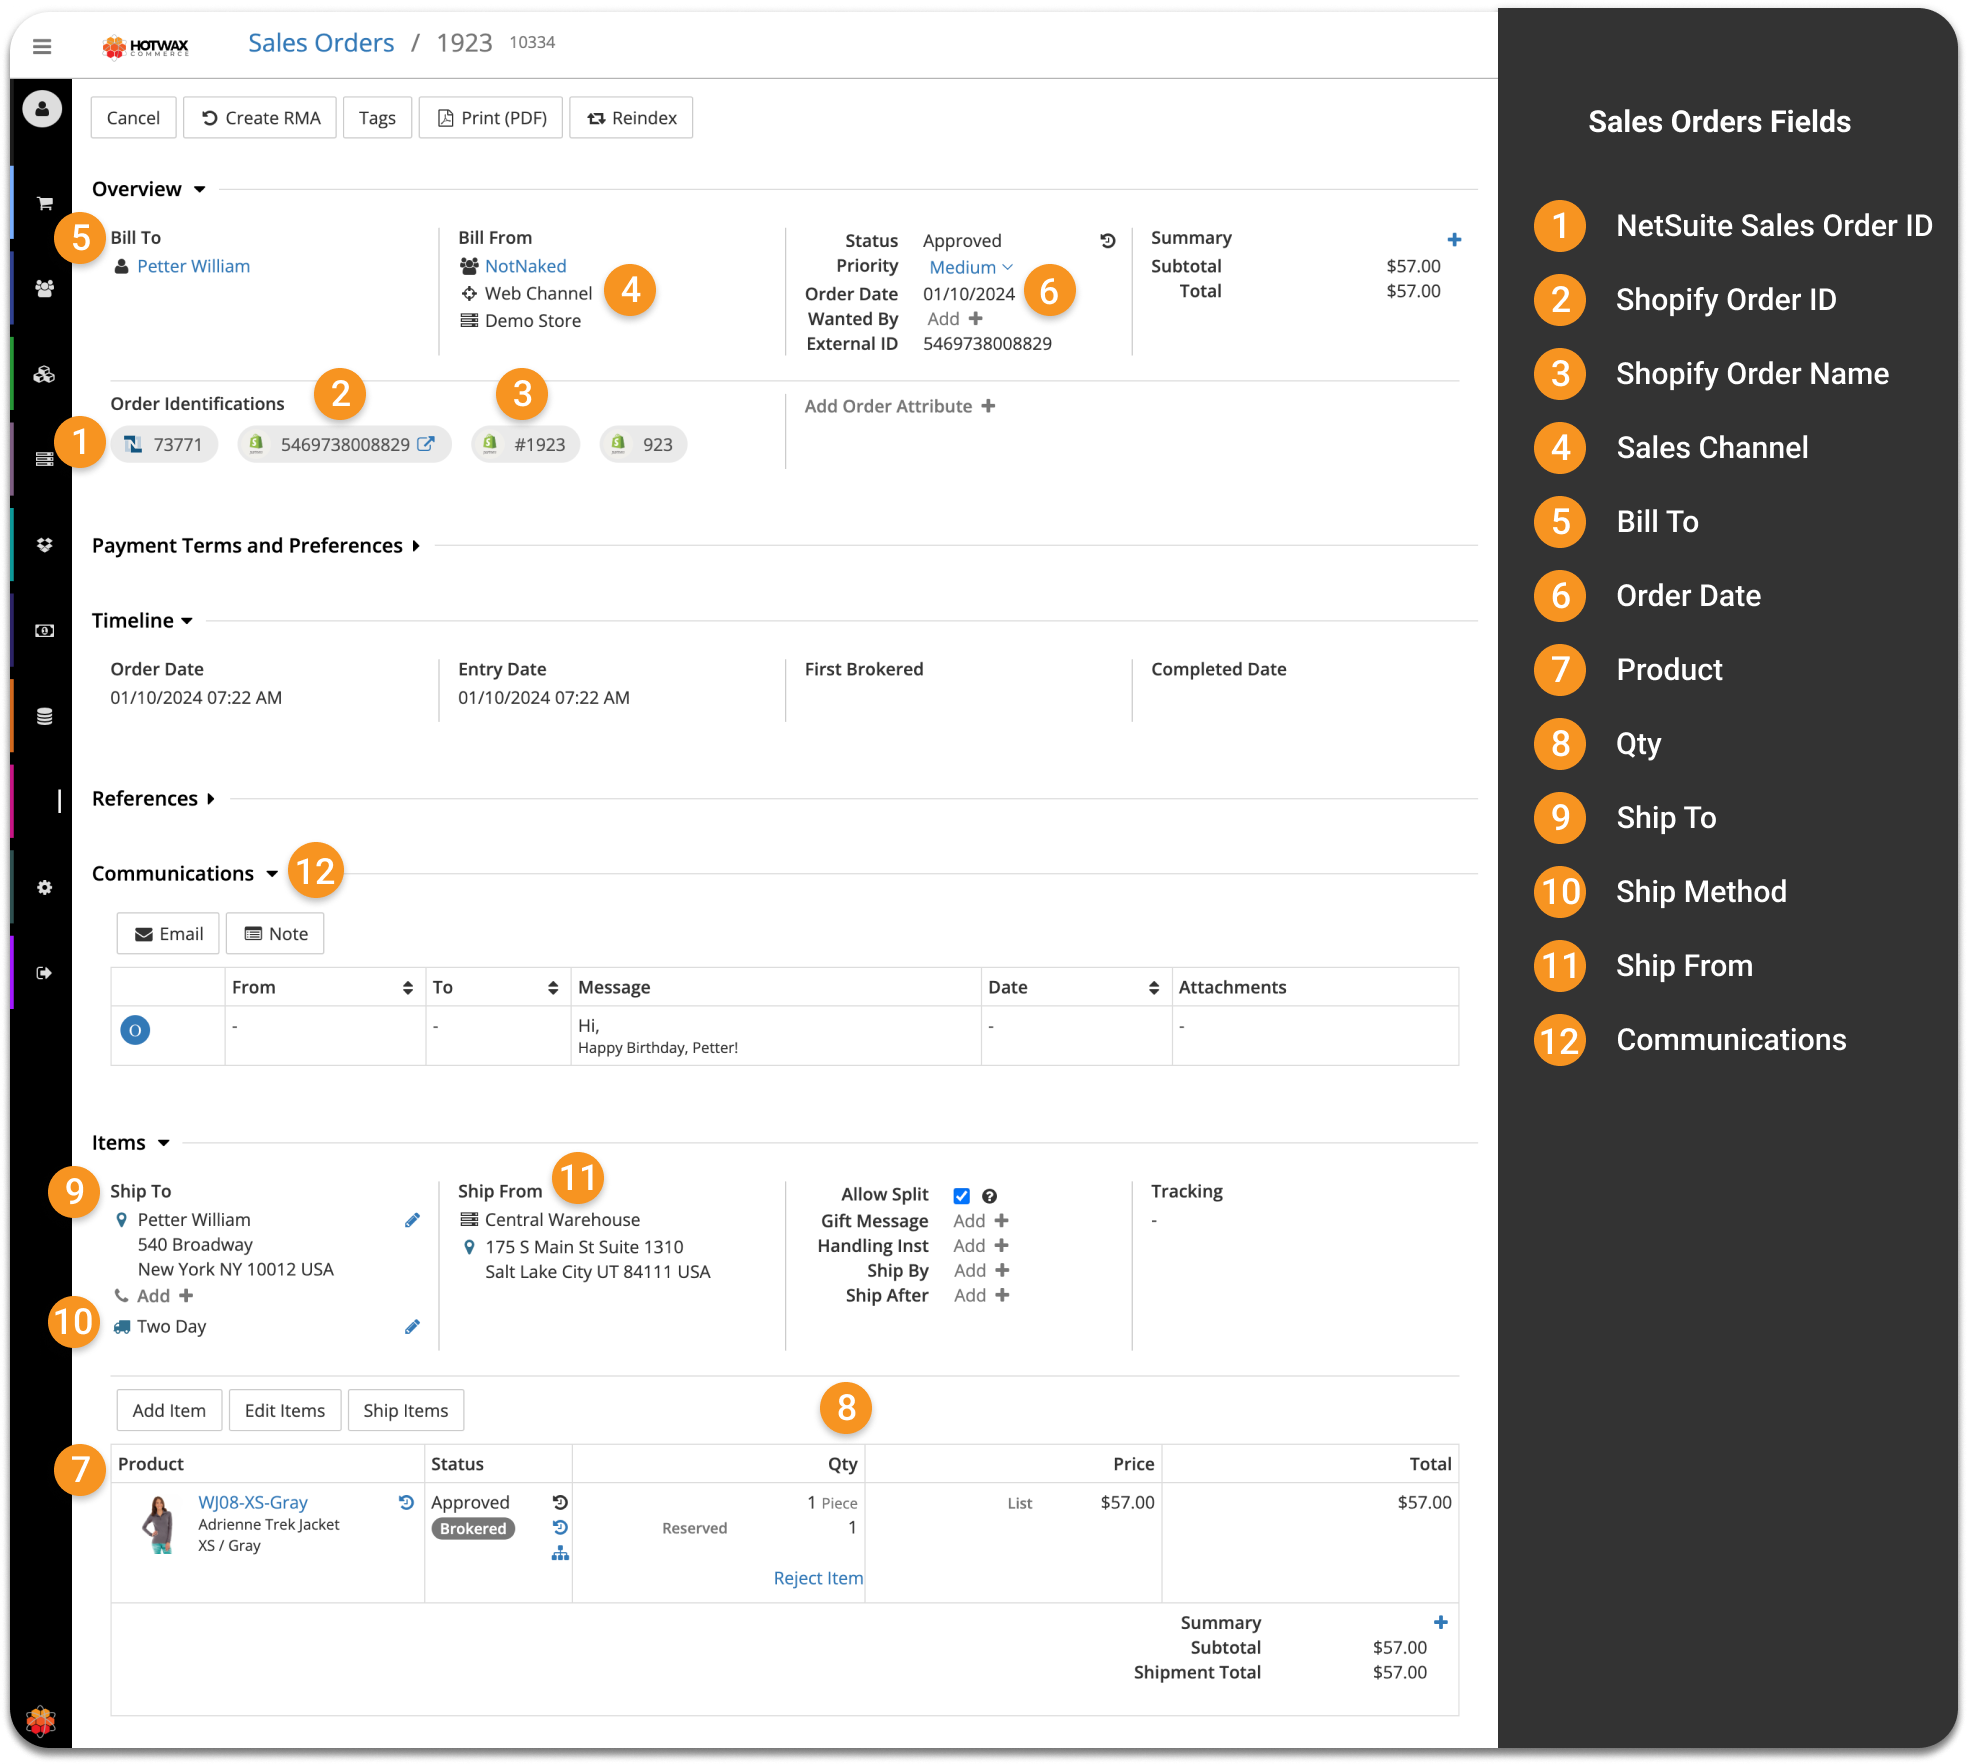
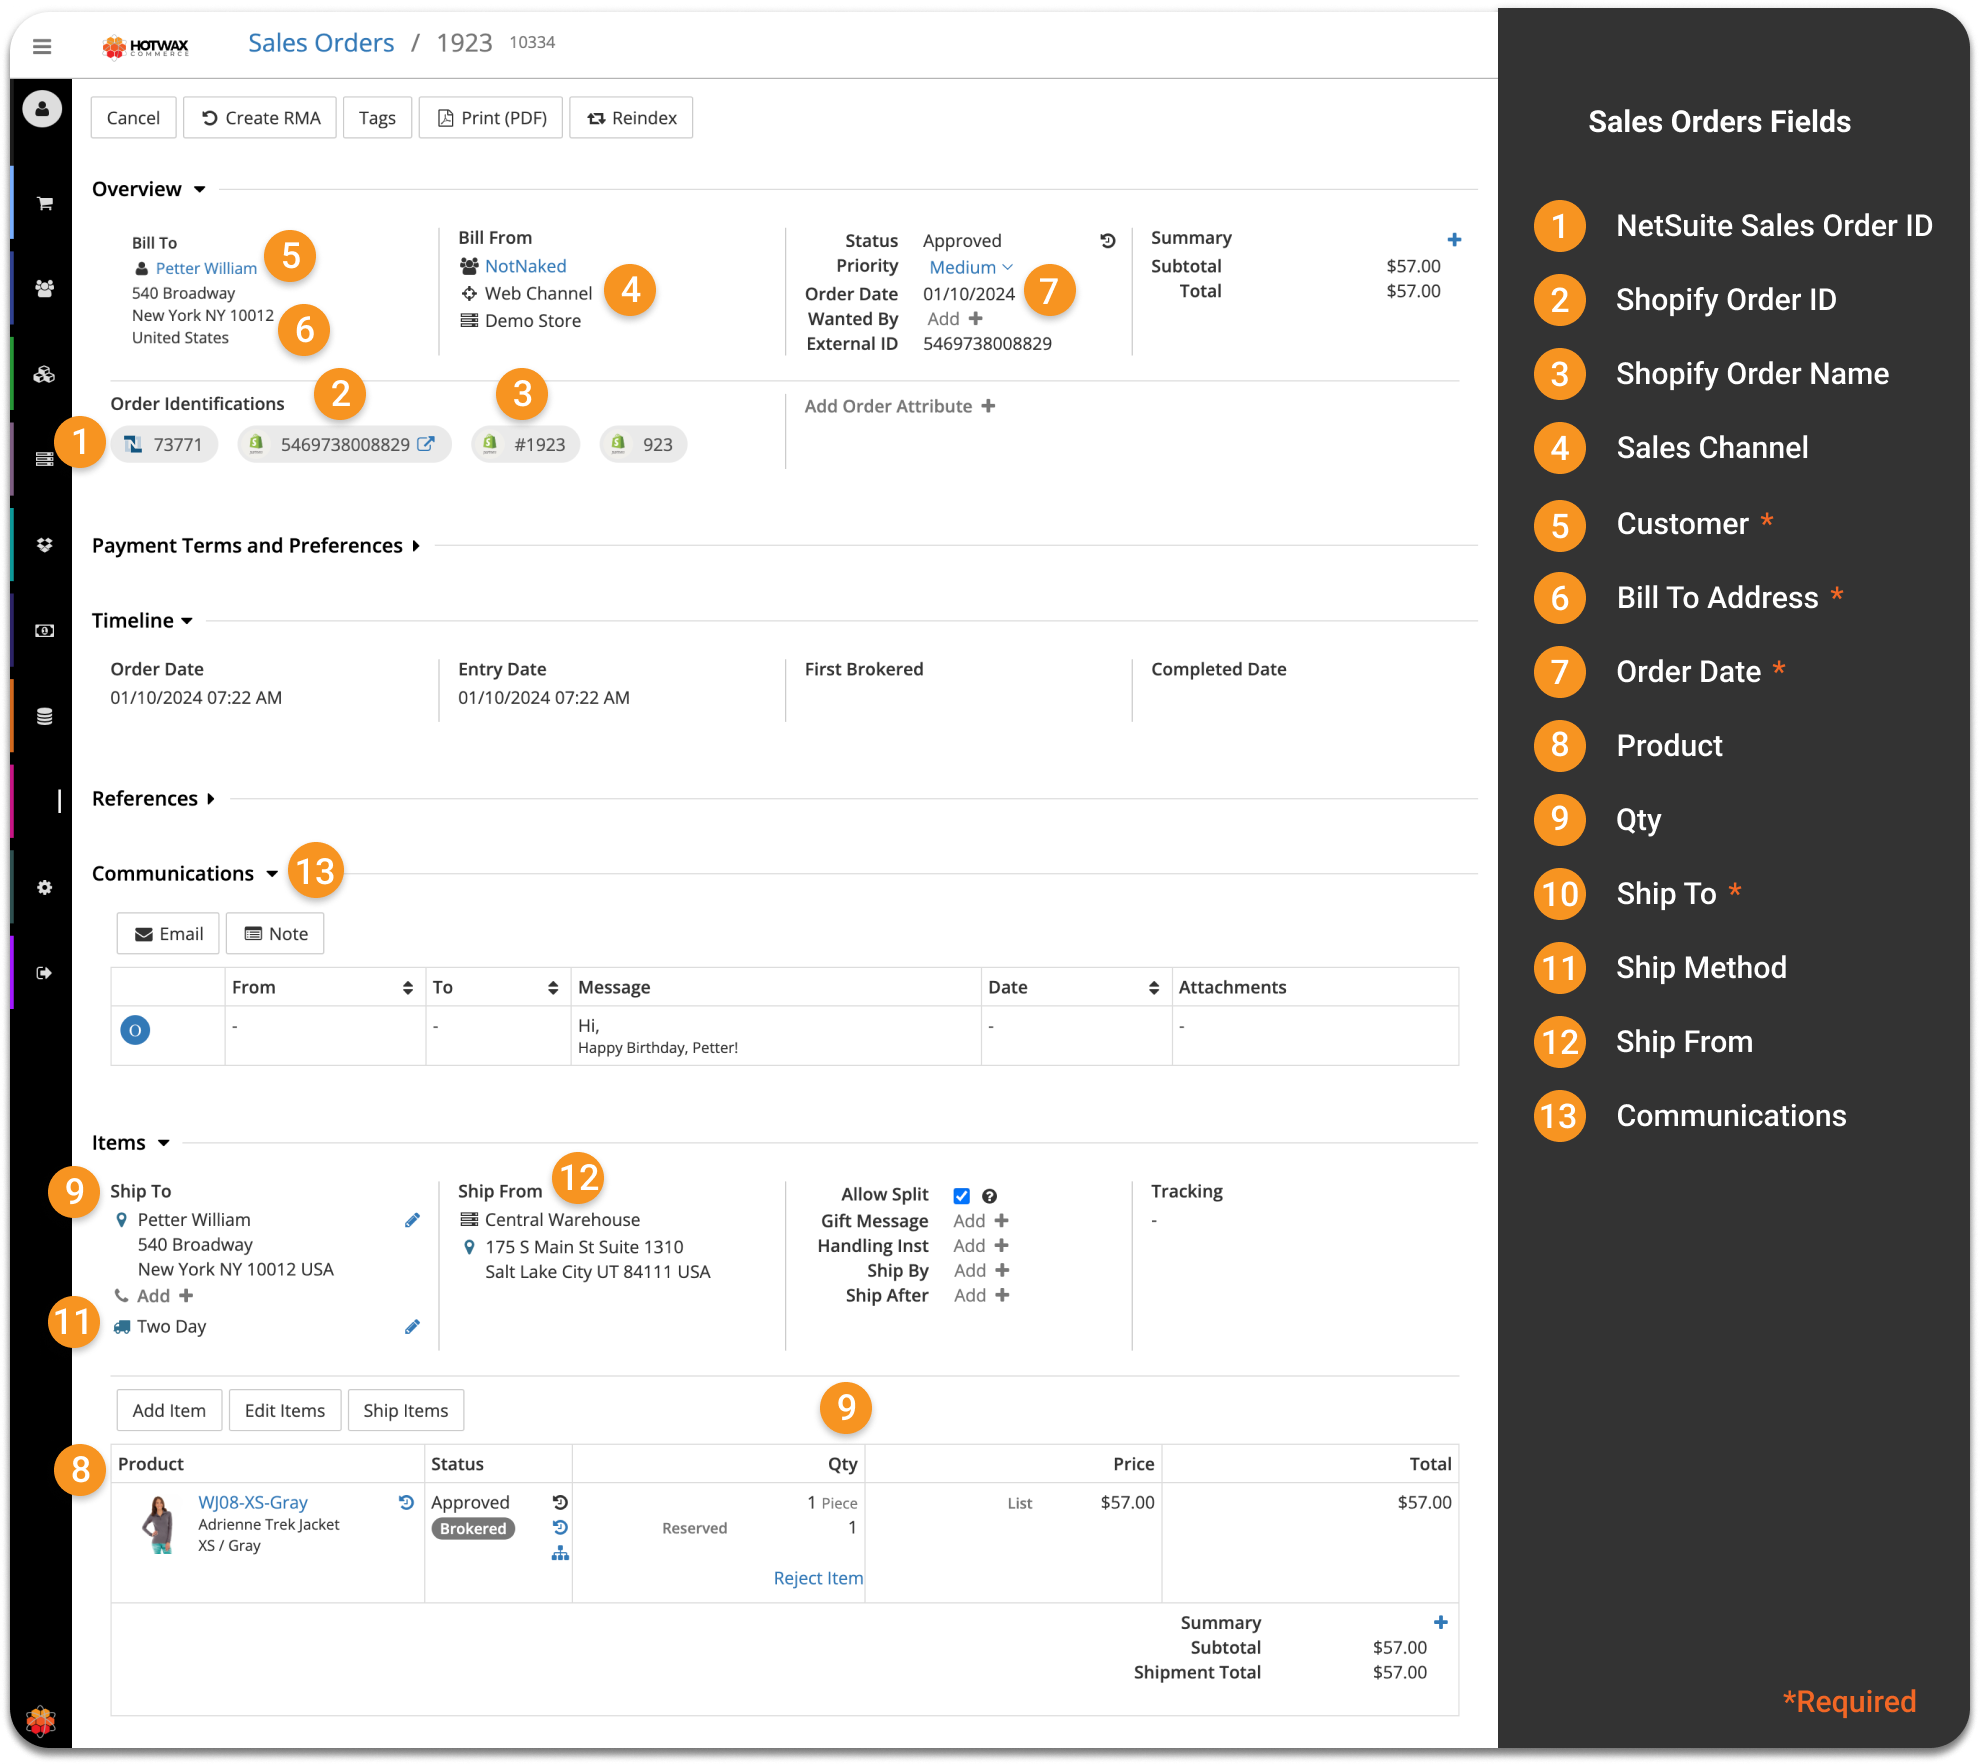
GITBOOK-68: No subject

diff --git a/netsuite/Flows/SalesOrder/OrderApproval.md b/netsuite/Flows/SalesOrder/OrderApproval.md
@@ -42,7 +42,7 @@ Identify new customers by checking the Person table for entries where the roleTy
 
 #### Here's how customer fields are mapped in HotWax Commerce and NetSuite that remains hidden in the user interface but included in the customer CSV file
 
-<table><thead><tr><th width="170">S.No.</th><th>Fields in HotWax Commerce</th><th>Fields in NetSuite</th></tr></thead><tbody><tr><td>1</td><td>Product Store External ID</td><td>Subsidiary *</td></tr><tr><td>2</td><td>Customer-Closed Won</td><td>Status *</td></tr><tr><td>3</td><td>Individual</td><td>Type * </td></tr><tr><td>4</td><td>Party ID</td><td>External ID</td></tr><tr><td>5</td><td>Party Classification</td><td>Initial Lead Source</td></tr><tr><td>6</td><td>True</td><td>Taxable</td></tr></tbody></table>
+<table><thead><tr><th width="170">S.No.</th><th>Fields in HotWax Commerce</th><th>Fields in NetSuite</th></tr></thead><tbody><tr><td>1</td><td>Product Store External ID</td><td>Subsidiary *</td></tr><tr><td>2</td><td>Customer-Closed Won</td><td>Status *</td></tr><tr><td>3</td><td>Individual</td><td>Type *</td></tr><tr><td>4</td><td>Party ID</td><td>External ID</td></tr><tr><td>5</td><td>Party Classification</td><td>Initial Lead Source</td></tr><tr><td>6</td><td>True</td><td>Taxable</td></tr></tbody></table>
 
 {% hint style="danger" %}
 "\*" denotes fields that are required to be sent to NetSuite for the customer sync to work
@@ -115,13 +115,13 @@ For retailers that use Avatax, the Tax Code and Shipping Tax Code will always co
 
 #### Here's how sales order fields are mapped in HotWax Commerce and NetSuite
 
-<table><thead><tr><th width="131">S.No.</th><th>Fields in HotWax Commerce</th><th>Fields in NetSuite</th></tr></thead><tbody><tr><td>1</td><td>NetSuite Sales Order ID</td><td>Internal Sales Order ID </td></tr><tr><td>2</td><td>Shopify Order ID</td><td>HC Shopify Order ID</td></tr><tr><td>3</td><td>Shopify Order Name</td><td>PO#</td></tr><tr><td>4</td><td>Sales Channel</td><td>HC Sales Channel</td></tr><tr><td>5</td><td>Customer</td><td>Customer *</td></tr><tr><td>6</td><td>Bill To Address</td><td>Billing Address *</td></tr><tr><td>7</td><td>Order Date</td><td>Date *</td></tr><tr><td>8</td><td>Product</td><td>Item</td></tr><tr><td>9</td><td>Qty</td><td>Quantity</td></tr><tr><td>10</td><td>Ship To</td><td>Shipping Address *</td></tr><tr><td>11</td><td>Ship Method</td><td>Shipping Method</td></tr><tr><td>12</td><td>Ship From</td><td>Location</td></tr><tr><td>13</td><td>Communications</td><td>Memo</td></tr></tbody></table>
+<table><thead><tr><th width="131">S.No.</th><th>Fields in HotWax Commerce</th><th>Fields in NetSuite</th></tr></thead><tbody><tr><td>1</td><td>NetSuite Sales Order ID</td><td>Internal Sales Order ID</td></tr><tr><td>2</td><td>Shopify Order ID</td><td>HC Shopify Order ID</td></tr><tr><td>3</td><td>Shopify Order Name</td><td>PO#</td></tr><tr><td>4</td><td>Sales Channel</td><td>HC Sales Channel</td></tr><tr><td>5</td><td>Customer</td><td>Customer *</td></tr><tr><td>6</td><td>Bill To Address</td><td>Billing Address *</td></tr><tr><td>7</td><td>Order Date</td><td>Date *</td></tr><tr><td>8</td><td>Product</td><td>Item</td></tr><tr><td>9</td><td>Qty</td><td>Quantity</td></tr><tr><td>10</td><td>Ship To</td><td>Shipping Address *</td></tr><tr><td>11</td><td>Ship Method</td><td>Shipping Method</td></tr><tr><td>12</td><td>Ship From</td><td>Location</td></tr><tr><td>13</td><td>Communications</td><td>Memo</td></tr></tbody></table>
 
 {% tabs %}
 {% tab title="Sales Order Fields in HotWax Commerce" %}
 <div data-full-width="false">
 
-<figure><img src="../../.gitbook/assets/sales order mapping hotwax (2).png" alt=""><figcaption><p>Sales Order Fields Mapping in HotWax Commerce</p></figcaption></figure>
+<figure><img src="../../.gitbook/assets/sales order mapping hotwax.png" alt=""><figcaption><p>Sales Order Fields Mapping in HotWax Commerce</p></figcaption></figure>
 
 </div>
 {% endtab %}
@@ -229,7 +229,6 @@ FTP Config: IMP_ORDER_IDENT
 
 * [x] Sync order ids
 
-
 ## Create Customer Deposit in NetSuite
 
 This step creates customer deposit records in NetSuite for authorized payments of sales orders. Generating a customer deposit in NetSuite is essential to represent authorized payments for orders. This step signifies the initiation of the financial transaction for orders.
@@ -261,6 +260,7 @@ A SuiteScript in NetSuite creates customer deposit records in "undeposited" stat
 ```
 HC_SC_CreateCustomerDeposit
 ```
+
 {% hint style="info" %}
 The `HC_SC_CreateCustomerDeposit` SuiteScript also generates a CSV file highlighting erroneous records found during processing and uploads the file to the SFTP server. Simultaneously, an email alert is automatically triggered to designated personnel, helping them quickly pinpoint the source of the issue and accelerating troubleshooting.
 {% endhint %}

diff --git a/netsuite/Flows/SalesOrder/posOrders.md b/netsuite/Flows/SalesOrder/posOrders.md
@@ -28,11 +28,11 @@ Orders that match these criteria are exported to an SFTP location in a CSV file.
 
 {% tabs %}
 {% tab title="POS Order Fields in HotWax Commerce" %}
-<figure><img src="../../.gitbook/assets/HC pos order mapping (1).png" alt=""><figcaption><p>POS Order Fields Mapping in HotWax Commerce</p></figcaption></figure>
+<figure><img src="broken-reference" alt=""><figcaption><p>POS Order Fields Mapping in HotWax Commerce</p></figcaption></figure>
 {% endtab %}
 
 {% tab title="POS Order Fields in NetSuite" %}
-<figure><img src="../../.gitbook/assets/POS order mapping netsuite.png" alt=""><figcaption><p>POS Order Fields Mapping in NetSuite</p></figcaption></figure>
+<figure><img src="broken-reference" alt=""><figcaption><p>POS Order Fields Mapping in NetSuite</p></figcaption></figure>
 {% endtab %}
 {% endtabs %}
 
